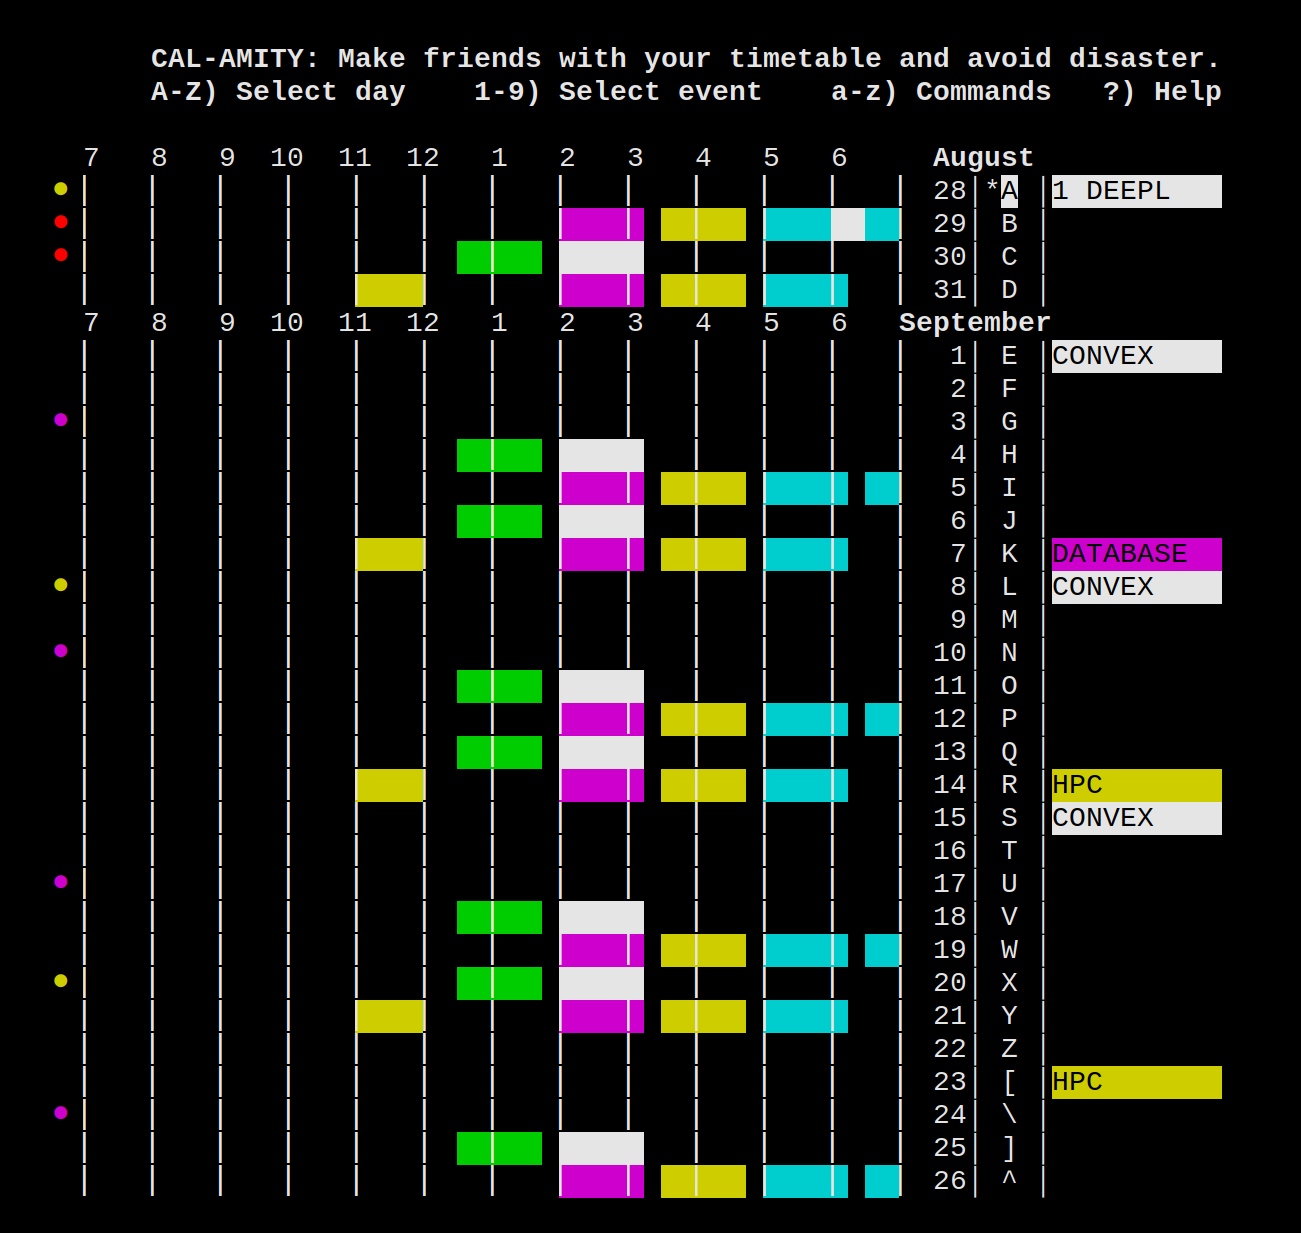
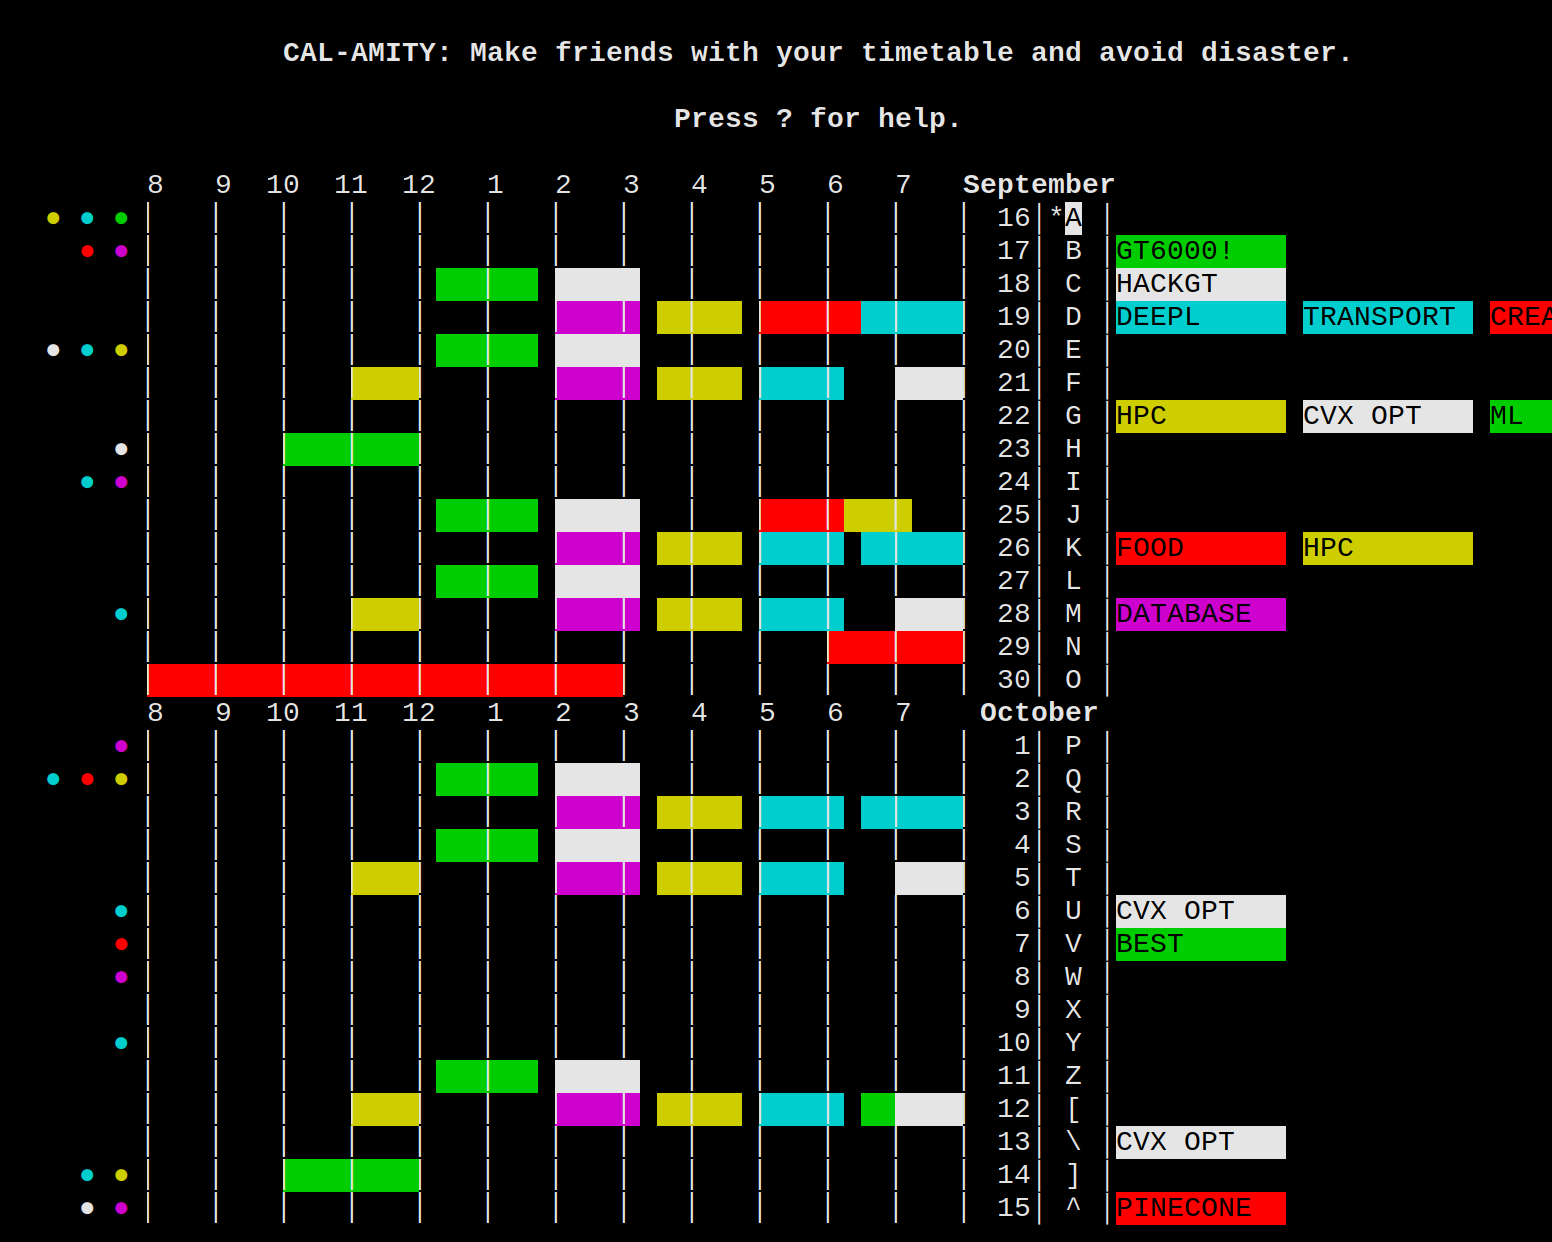
create tables if not exist

diff --git a/calamity_calendar/__main__.py b/calamity_calendar/__main__.py
@@ -156,13 +156,13 @@ class Calamity:
                 self.display()
                 # get the next character and move to the corresponding node
                 c = getch()
+                if c not in node:
+                    node = command_tree.ROOT
                 if c in node:
                     node = node[c]
                     if isinstance(node, types.FunctionType):
                         node(self)
                         node = command_tree.ROOT
-                else:
-                    node = command_tree.ROOT
 
     def display(self):
         # DISPLAY
@@ -175,20 +175,26 @@ class Calamity:
             display.welcome()
             self.welcomed = True
         display.display_calendar(self)
-        if self.message:
-            print(self.message)
-            self.message = ''
+        print()
+        for line in (lines := self.message.splitlines()):
+            print(line.center(display.get_term_width()))
+        print('\n'*(3 - len(lines)), end='')
+        print(colors.UP_LINE * 3, end='', flush=True)
+        print(colors.CLEAR_TO_END, end='', flush=False)  # clear the last line when we next print
+        self.message = ''
 
     # MISCELLANEOUS COMMANDS
     def show_help(self):
-        print(colors.ALT_SCREEN + help.help);
-        getch();
+        print(colors.ALT_SCREEN)
+        for line in help.help.splitlines():
+            print(line.center(display.get_term_width()))
+        getch()
         print(colors.MAIN_SCREEN)
 
     def quit(self, save=True):
         if not save and questionary.confirm("Quit without saving (undo all changes)?", default=False).ask():
             self.session.rollback()
-            database.config.rollback()
+            database.config.session.rollback()
             print("Changes discarded.")
         self.session.commit()
         database.config.commit()
@@ -475,11 +481,7 @@ class Calamity:
         new_event = Event(date=(date or self.chosen_date), description=description, color=color, recurrence_parent=recurrence_parent,
                           type=type, start_time=start_time, end_time=end_time, code=code)
         self.session.add(new_event)
-        print(new_event.recurrence_parent)
-        print(new_event.color)
         self.session.flush()  # get the id of the new event
-        print(new_event.recurrence_parent)
-        print(new_event.color)
         self.chosen_event = new_event
         if type == "task" and code is None:
             self.edit_field(field='code')
@@ -491,48 +493,73 @@ class Calamity:
                 'end_time':          new_event.end_time,          'code':       new_event.code,
                 'recurrence_parent': new_event.recurrence_parent, 'color':      new_event.color}
 
+    def get_move_date(self):
+        help_text = ("[A-Z] move to a date by capital letter     A) move to the first date in view",
+                     "[0-9] move to a two digit date            14) move to the 14th of the month ",
+                     "+/-   move by day/week/month              2w) move forward two weeks        ",
+                     "                                         -1m) move back one month           ")
+        for line in help_text:
+            print(line.center(display.get_term_width()), end='' if line == help_text[-1] else '\n', flush=True)
+        c1 = getch()
+        english_delta, direction, n = None, 1, 1
+        # date by capital letter
+        if c1 in string.ascii_uppercase + '[\\]^_':
+            return self.from_date + ord(c1) - ord('A')
+        # two digit date
+        elif c1 in string.digits:
+            c2 = getch()
+            if c2.isdigit():
+                new_day = int(c1 + c2)
+                for date in range(self.from_date, self.from_date + display.NUM_DAYS):
+                    if datetime.date.fromordinal(date).day == new_day:
+                        return date
+            elif c2 in 'dwm':
+                n = int(c1)
+                english_delta = c2
+        # +/-
+        elif c1 in '+-':
+            direction = 1 if c1 == '+' else -1
+            first_digit = True
+            while True:
+                c = getch()
+                if c.isdigit():
+                    if first_digit:
+                        n = 0
+                        first_digit = False
+                    n = 10 * n + int(c)
+                elif c in 'dwm':
+                    english_delta = c
+                    break
+                else:
+                    return None  # invalid input
+        # d/w/m
+        elif c1 in 'dwm':
+            english_delta = c1
+        # get the target
+        if english_delta is not None:
+            if english_delta == 'd':
+                return self.chosen_date + n * direction
+            elif english_delta == 'w':
+                return self.chosen_date + 7 * n * direction
+            elif english_delta == 'm':
+                new_date = self.chosen_date
+                for _ in range(n):
+                    new_date = dateutils.add_month(new_date, back=(direction == -1))
+                return new_date
+
+
+
     def move_event(self, target=None, fail=False, group=False):
         if self.chosen_event is None:
             return
         if fail:
             return
-
+        # get the target
         if target is None:
-            # get the target
-            c1 = getch()
-            english_delta, direction = None, 1
-            # two-digit dates
-            if not group and c1 in ('0123'):
-                c2 = getch()
-                if c2.isdigit():
-                    new_day = int(c1 + c2)
-                    for date in range(self.from_date, self.from_date + display.NUM_DAYS):
-                        if datetime.date.fromordinal(date).day == new_day:
-                            target = date
-            # capital letters
-            elif not group and c1 in string.ascii_uppercase:
-                target = self.from_date + ord(c1) - ord('A')
-            # +/-
-            elif c1 in '+-':
-                direction = 1 if c1 == '+' else -1
-                english_delta = getch()
-            # d/w/m
-            elif c1 in 'wdm' + string.digits:
-                english_delta = c1
-
-            if english_delta is not None:
-                if english_delta == 'd':
-                    target = self.chosen_event.date + 1 * direction
-                elif english_delta == 'w':
-                    target = self.chosen_event.date + 7 * direction
-                elif english_delta == 'm':
-                    target = dateutils.add_month(self.chosen_event.date, back=(direction == -1))
-                elif english_delta.isdigit():
-                    target = self.chosen_event.date + int(english_delta) * direction
-
-        # set the target
-        if target is None:
-            return {'fail': True}
+            target = self.get_move_date()
+            # did we get a target?
+            if target is None:
+                return {'fail': True}
         self.postpone(group=group, delta=target - self.chosen_event.date)
         return {'target': target}
 

diff --git a/calamity_calendar/command_tree.py b/calamity_calendar/command_tree.py
@@ -1,8 +1,6 @@
 from string import ascii_uppercase, digits
 
-
 from calamity_calendar import database, display
-
 
 
 class TrieNode(dict):
@@ -11,20 +9,21 @@ class TrieNode(dict):
         super().__init__()
         self.message = message
 
+
 # COMMAND TRIE
 # PARENT NODES
-R = ROOT = TrieNode("?) HELP    e) EDIT    z) VIEW    g) GROUP")
-R['e'] = TrieNode("EDIT:   D) date    d) description    c) code      \n"
-                  "        s) start time    f) finish time    t) time\n")
-R['z'] = TrieNode("VIEW:    k) up    j) down    h) left    l) right\n"
-                  "         z) center    t) top    b) bottom       \n"
-                  "         0) toggle 12/24 hour    ?) toggle help \n")
-R['g'] = TrieNode("GROUP:  e) EDIT   r) repeat   x) delete    X) delete future    m) move    y) yank")
+R = ROOT = TrieNode("?) HELP     e) EDIT     z) VIEW     g) GROUP")
+R['e']   = TrieNode("   EDIT:    D) date     c) code     d) description      \n"
+                    "            t) time     s) start    f) finish           \n")
+R['z']   = TrieNode("   VIEW:    l) right    h) left     j) down     k) up   \n"
+                    "            z) center   b) bottom   t) top              \n")
+R['g']   = TrieNode("   GROUP:   e) EDIT     r) repeat   x) delete           \n"
+                    "            m) move     y) yank     X) delete future    \n")
 R['g']['e'] = TrieNode(message=R['e'].message)
-R['\x1b'] = TrieNode("ESC) quit")
+R['\x1b'] = TrieNode(message=R.message)
 R['\x1b']['['] = TrieNode()
 # CAPITAL LETTERS
-for c in ascii_uppercase:
+for c in ascii_uppercase + '[\\]^_`':
     R[c] = lambda self, c=c: setattr(self, 'chosen_date', self.from_date + ord(c) - ord('A'))
 # NUMBERS
 for c in digits[1:]:
@@ -87,12 +86,12 @@ R['.'] = lambda self: self.repeat()
 for key, event_type in zip('atc', ('appointment', 'task', 'chore')):
     R[key] = lambda self, event_type=event_type: self.checkpoint_wrapper(self.add_event, type=event_type)
 # COMMANDS (TRANSITIVE)
-cmds = {'-': 'prepone_one', '+' : 'postpone_one', '=': 'postpone_one',
-        ';' : 'cycle_color_forward', ',': 'cycle_color_backward', '~': 'toggle_type',
+cmds = {'-': 'prepone_one', '+': 'postpone_one', '=': 'postpone_one',
+        ';': 'cycle_color_forward', ',': 'cycle_color_backward', '~': 'toggle_type',
         'r': 'repeat_event', 'x': 'kill_event', 'm': 'move_event',
         'p': 'paste', 's': 'separate'}
 for key, func in cmds.items():
-    R[key] =     lambda self, func=func, group=False: self.checkpoint_wrapper(getattr(self, func), group=group)
+    R[key] = lambda self, func=func, group=False: self.checkpoint_wrapper(getattr(self, func), group=group)
     R['g'][key] = lambda self, func=func, group=True: self.checkpoint_wrapper(getattr(self, func), group=group)
 # edit
 for key, field in zip('Ddcsf', ('date', 'description', 'code', 'start_time', 'end_time')):
@@ -102,5 +101,7 @@ for key, field in zip('Ddcsf', ('date', 'description', 'code', 'start_time', 'en
 R['e']['t'] = lambda self: self.checkpoint_wrapper(self.edit_time)
 R['g']['t'] = lambda self: self.checkpoint_wrapper(self.edit_time, group=True)
 R['g']['e']['t'] = R['g']['t']
+# alias edit description
+R['d'] = R['e']['d']
 # delete future events
 R['g']['X'] = lambda self: self.checkpoint_wrapper(self.kill_future_events)

diff --git a/calamity_calendar/database.py b/calamity_calendar/database.py
@@ -9,27 +9,6 @@ from sqlalchemy.orm import sessionmaker
 
 from calamity_calendar import colors
 
-import logging
-
-# delete the log file
-"""
-open('sqlalchemy.log', 'w').close()
-logger = logging.getLogger('sqlalchemy')
-logger.setLevel(logging.INFO)
-#redirect to sqlachemy.log
-logger.addHandler(logging.FileHandler('sqlalchemy.log', mode='w'))
-"""
-
-# logging.basicConfig(filename='sqlalchemy.log', level=logging.INFO)
-
-# Create the events table
-# the database file will live in ~/.local/share/calamity/events.db
-DB_PATH = os.path.join(os.path.expanduser('~'), '.local', 'share', 'calamity', 'events.db')
-engine = create_engine(f'sqlite:///{DB_PATH}')
-
-# Create a session
-Session = sessionmaker(bind=engine)
-
 # Declare the base
 Base = declarative_base()
 
@@ -93,14 +72,15 @@ class Config(Base):
 
 class ConfigDict:
 
-    def __init__(self):
+    def __init__(self, defaults):
+        self.defaults = defaults
         self.session = Session()
         self._dict = {row.key: row for row in self.session.query(Config).all()}
         self.__contains__ = self._dict.__contains__
         self.init_defaults()
 
     def init_defaults(self):
-        for key, value in default_config.items():
+        for key, value in self.defaults.items():
             if key not in self._dict:
                 self._dict[key] = Config(key=key)  # create a new record
                 self[key] = value
@@ -113,17 +93,11 @@ class ConfigDict:
         return json.loads(self._dict[key].value)  # self._dict[key] is a Config object (sql record)
 
     def __setitem__(self, key, value):
-        assert key in default_config
+        assert key in self.defaults
         self._dict[key].value = json.dumps(value)  # self._dict[key] is a Config object (sql record)
 
     def __repr__(self):
         return repr({key: self[key] for key in self._dict.keys()})
-
-
-default_config = {'military_time': False, 'timezone': 0, 'start_hour': 8, 'backup_location': '~/events_backup.db', 'ROT13': False, 'show_help': True, 'color': 'cyan'}
-config = ConfigDict()
-
-
 
 
 def fetch_events(date, session):
@@ -140,5 +114,21 @@ def fetch_chores(date, session):
 
 
 
-# Create the table
+# Create the file if it doesn't exist
+# the database file will live in ~/.local/share/calamity/events.db
+DB_PATH = os.path.join(os.path.expanduser('~'), '.local', 'share', 'calamity', 'events.db')
+if not os.path.exists(os.path.dirname(DB_PATH)):
+    os.makedirs(os.path.dirname(DB_PATH))
+
+# Connect to the database
+engine = create_engine(f'sqlite:///{DB_PATH}')
+
+# Create the tables if they don't exist
 Base.metadata.create_all(engine)
+
+# Create a session factory
+Session = sessionmaker(bind=engine)
+
+# Create globally shared config object
+default_config = {'military_time': False, 'timezone': 0, 'start_hour': 8, 'backup_location': '~/events_backup.db', 'ROT13': False, 'show_help': True, 'color': 'cyan'}
+config = ConfigDict(default_config)

diff --git a/calamity_calendar/display.py b/calamity_calendar/display.py
@@ -30,9 +30,9 @@ def get_timetable_header():
 def welcome():
     print('\n' * 100)  # clear the screen
     print(colors.ANSI_BOLD +
-          "CAL-AMITY: Make friends with your timetable and avoid disaster.".center(get_term_width()) + '\n' +
-          'A-Z) Select day    1-9) Select event    a-z) Commands   ?) Help'.center(
-              get_term_width()) + '\n' + colors.ANSI_RESET)
+          "CAL-AMITY: Make friends with your timetable and avoid disaster.".center(get_term_width()) + '\n\n' +
+          'Press ? for help.'.center(get_term_width()) + '\n' +
+          colors.ANSI_RESET)
 
 
 def task_code(task, cal):
@@ -113,8 +113,6 @@ def display_calendar(cal):
         if date.day == 1 or i == 0:
             print(get_margin() + get_timetable_header() + colors.ANSI_BOLD + date.strftime("%B").center(9) + colors.ANSI_RESET)
         print(get_margin() + day_row(date_num, cal))
-    print('\n' * 2)
-    print(colors.UP_LINE * 2, end='')
 
 def show_days_events(cal):
     prev_type = None

diff --git a/calamity_calendar/colors.py b/calamity_calendar/colors.py
@@ -8,6 +8,7 @@ ANSI_REVERSE = "\033[7m"
 CURSOR_OFF = "\033[?25l"
 CURSOR_ON = "\033[?25h"
 CLEAR_LINE = "\033[K"
+CLEAR_TO_END = "\033[0K"
 ANSI_COLOR_DICT = {
     "red": "\033[91m",
     "green": "\033[32m",
